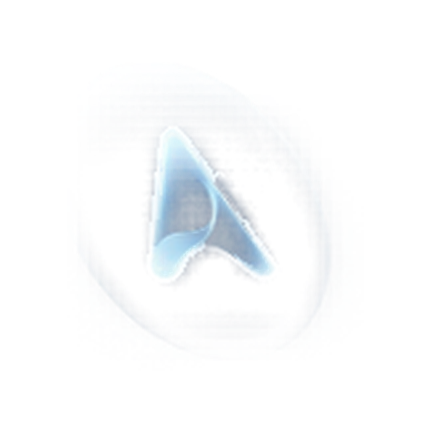
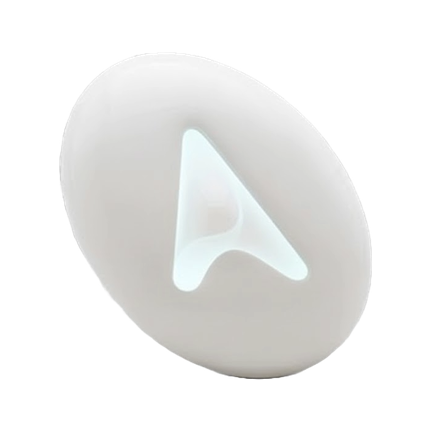
Roll out new Ace sigil across Meridian

diff --git a/apps/meridian/components/AceMark.tsx b/apps/meridian/components/AceMark.tsx
@@ -1,6 +1,5 @@
 import React from 'react';
-import { View, StyleSheet } from 'react-native';
-import { LinearGradient } from 'expo-linear-gradient';
+import { Image, StyleSheet, View } from 'react-native';
 
 interface AceMarkProps {
   size?: number;
@@ -11,176 +10,73 @@ interface AceMarkProps {
   headingDeg?: number;
 }
 
+const ACE_MARK_ASSET = require('../assets/ace-mark.png');
+
 export function AceMark({
   size = 96,
-  ringColor = 'rgba(220, 238, 255, 0.76)',
+  ringColor = 'rgba(220, 238, 255, 0.36)',
   glowColor = '#cbe8ff',
-  backgroundColor = '#303844',
-  iconColor = 'rgba(246, 250, 255, 0.98)',
-  headingDeg = 12,
+  backgroundColor = 'transparent',
 }: AceMarkProps) {
-  const ovalW = size * 0.86;
-  const ovalH = size * 1.04;
-  const borderW = Math.max(1, size * 0.015);
-  const haloW = ovalW * 1.2;
-  const haloH = ovalH * 1.1;
-  const markW = size * 0.38;
-  const markH = size * 0.46;
-  const rightW = markW * 0.38;
-  const rightH = markH * 0.92;
-  const leftW = markW * 0.3;
-  const leftH = markH * 0.56;
-  const notchW = markW * 0.16;
-  const notchH = markH * 0.32;
-  const footW = markW * 0.22;
-  const footH = markH * 0.16;
+  const haloSize = size * 1.08;
+  const markW = size * 0.9;
+  const markH = size * 0.94;
+  const showBackdrop = backgroundColor !== 'transparent';
 
   return (
-    <View style={{ width: size, height: size, alignItems: 'center', justifyContent: 'center' }}>
+    <View style={[styles.container, { width: size, height: size }]}>
       <View
-        style={{
-          position: 'absolute',
-          width: haloW,
-          height: haloH,
-          borderRadius: size,
-          backgroundColor: glowColor,
-          opacity: 0.1,
-          shadowColor: glowColor,
-          shadowOpacity: 0.5,
-          shadowRadius: size * 0.34,
-          shadowOffset: { width: 0, height: 0 },
-        }}
+        style={[
+          styles.halo,
+          {
+            width: haloSize,
+            height: haloSize,
+            borderRadius: haloSize / 2,
+            backgroundColor: glowColor,
+            shadowColor: glowColor,
+            shadowRadius: size * 0.26,
+          },
+        ]}
       />
 
-      <LinearGradient
-        colors={[
-          'rgba(255,255,255,0.14)',
-          'rgba(255,255,255,0.06)',
-          'rgba(255,255,255,0.015)',
-        ]}
-        start={{ x: 0.18, y: 0.04 }}
-        end={{ x: 0.86, y: 0.92 }}
-        style={{
-          position: 'absolute',
-          width: ovalW,
-          height: ovalH,
-          borderRadius: size,
-          borderWidth: borderW,
-          borderColor: ringColor,
-          backgroundColor,
-          overflow: 'hidden',
-          shadowColor: glowColor,
-          shadowOpacity: 0.2,
-          shadowRadius: size * 0.2,
-          shadowOffset: { width: 0, height: 4 },
-        }}
-      >
-        <LinearGradient
-          colors={['rgba(255,255,255,0.18)', 'rgba(255,255,255,0)']}
-          start={{ x: 0.18, y: 0 }}
-          end={{ x: 0.72, y: 0.46 }}
-          style={StyleSheet.absoluteFill}
-        />
-      </LinearGradient>
-
-      <View
-        style={{
-          width: markW,
-          height: markH,
-          marginBottom: size * 0.01,
-          transform: [{ rotate: `${headingDeg}deg` }],
-        }}
-      >
-        <LinearGradient
-          colors={['rgba(255,255,255,0.98)', iconColor, '#d4e7ff']}
-          start={{ x: 0.18, y: 0 }}
-          end={{ x: 0.88, y: 1 }}
+      {showBackdrop ? (
+        <View
           style={[
-            styles.arm,
+            styles.backdrop,
             {
-              width: rightW,
-              height: rightH,
-              left: markW * 0.42,
-              top: markH * 0.02,
-              borderRadius: rightW * 0.82,
-              transform: [{ rotate: '27deg' }],
-              shadowColor: '#eff8ff',
-              shadowOpacity: 0.35,
-              shadowRadius: size * 0.12,
-              shadowOffset: { width: 0, height: 0 },
-            },
-          ]}
-        >
-          <LinearGradient
-            colors={['rgba(255,255,255,0.28)', 'rgba(255,255,255,0)']}
-            start={{ x: 0.2, y: 0 }}
-            end={{ x: 0.75, y: 1 }}
-            style={StyleSheet.absoluteFill}
-          />
-        </LinearGradient>
-
-        <LinearGradient
-          colors={['#f4fbff', '#d5e7fb']}
-          start={{ x: 0.12, y: 0 }}
-          end={{ x: 0.88, y: 1 }}
-          style={[
-            styles.arm,
-            {
-              width: leftW,
-              height: leftH,
-              left: markW * 0.08,
-              top: markH * 0.42,
-              borderRadius: leftW * 0.9,
-              transform: [{ rotate: '-29deg' }],
+              width: size * 0.9,
+              height: size * 0.9,
+              borderRadius: size * 0.45,
+              backgroundColor,
+              borderColor: ringColor,
             },
           ]}
         />
+      ) : null}
 
-        <LinearGradient
-          colors={['rgba(245, 250, 255, 0.98)', '#d9ecff']}
-          start={{ x: 0, y: 0.35 }}
-          end={{ x: 1, y: 0.85 }}
-          style={[
-            styles.arm,
-            {
-              width: footW,
-              height: footH,
-              left: markW * 0.17,
-              top: markH * 0.75,
-              borderRadius: footH,
-              transform: [{ rotate: '-5deg' }],
-            },
-          ]}
-        />
-
-        <LinearGradient
-          colors={['#526272', '#2b3541']}
-          start={{ x: 0.2, y: 0 }}
-          end={{ x: 0.86, y: 1 }}
-          style={[
-            styles.arm,
-            {
-              width: notchW,
-              height: notchH,
-              left: markW * 0.37,
-              top: markH * 0.44,
-              borderRadius: notchW,
-              transform: [{ rotate: '18deg' }],
-              shadowColor: '#1a2531',
-              shadowOpacity: 0.18,
-              shadowRadius: size * 0.03,
-              shadowOffset: { width: 0, height: 1 },
-            },
-          ]}
-        />
-      </View>
+      <Image
+        source={ACE_MARK_ASSET}
+        style={{ width: markW, height: markH }}
+        resizeMode="contain"
+      />
     </View>
   );
 }
 
 const styles = StyleSheet.create({
-  arm: {
+  container: {
+    alignItems: 'center',
+    justifyContent: 'center',
+  },
+  halo: {
     position: 'absolute',
-    overflow: 'hidden',
+    opacity: 0.08,
+    shadowOpacity: 0.42,
+    shadowOffset: { width: 0, height: 0 },
+  },
+  backdrop: {
+    position: 'absolute',
+    opacity: 0.18,
+    borderWidth: 1,
   },
 });

diff --git a/apps/meridian/assets/convert-icon.js b/apps/meridian/assets/convert-icon.js
@@ -1,5 +1,5 @@
 /**
- * Rebuilds the iOS icon from the Ace mark master without distorting it into a square.
+ * Rebuilds the iOS icon from the transparent Ace mark master.
  * Run: node convert-icon.js
  */
 const path = require('path');
@@ -21,41 +21,70 @@ const masterMarkPath = path.join(__dirname, 'ace-mark.png');
 const iosIconPath = path.join(__dirname, 'icon.png');
 
 async function buildIosIcon() {
-  const metadata = await sharp(masterMarkPath).metadata();
-  const side = Math.max(metadata.width ?? 1024, metadata.height ?? 1024);
+  const side = 1024;
 
-  const background = await sharp(masterMarkPath)
-    .resize(side, side, {
-      fit: 'cover',
-      position: 'centre',
-    })
-    .blur(28)
+  const background = {
+    create: {
+      width: side,
+      height: side,
+      channels: 4,
+      background: { r: 12, g: 18, b: 28, alpha: 1 },
+    },
+  };
+
+  const glow = await sharp({
+    create: {
+      width: side,
+      height: side,
+      channels: 4,
+      background: { r: 0, g: 0, b: 0, alpha: 0 },
+    },
+  })
+    .composite([
+      {
+        input: Buffer.from(
+          `<svg width="${side}" height="${side}" viewBox="0 0 ${side} ${side}" xmlns="http://www.w3.org/2000/svg">
+            <defs>
+              <radialGradient id="g" cx="50%" cy="44%" r="40%">
+                <stop offset="0%" stop-color="#e9f5ff" stop-opacity="0.32"/>
+                <stop offset="40%" stop-color="#9ab9d7" stop-opacity="0.12"/>
+                <stop offset="100%" stop-color="#0c121c" stop-opacity="0"/>
+              </radialGradient>
+            </defs>
+            <rect width="${side}" height="${side}" fill="url(#g)"/>
+          </svg>`
+        ),
+      },
+    ])
+    .blur(10)
+    .png()
     .toBuffer();
 
   const foreground = await sharp(masterMarkPath)
-    .resize(Math.round(side * 0.93), Math.round(side * 0.93), {
+    .resize(Math.round(side * 0.76), Math.round(side * 0.76), {
       fit: 'contain',
       position: 'centre',
       background: { r: 0, g: 0, b: 0, alpha: 0 },
     })
+    .png()
     .toBuffer();
 
   await sharp(background)
     .composite([
+      { input: glow },
       {
         input: foreground,
         gravity: 'centre',
       },
     ])
-    .resize(1024, 1024)
     .png()
     .toFile(iosIconPath);
 }
 
 async function main() {
-  console.log('Rebuilding Ace iOS icon from ace-mark.png...');
+  console.log('Rebuilding Ace iOS icon from transparent ace-mark.png...');
   await buildIosIcon();
-  console.log('✓ icon.png (1024×1024)');
+  console.log('icon.png (1024x1024) rebuilt');
   console.log('Adaptive icon and splash remain source-controlled separately.');
 }
 
